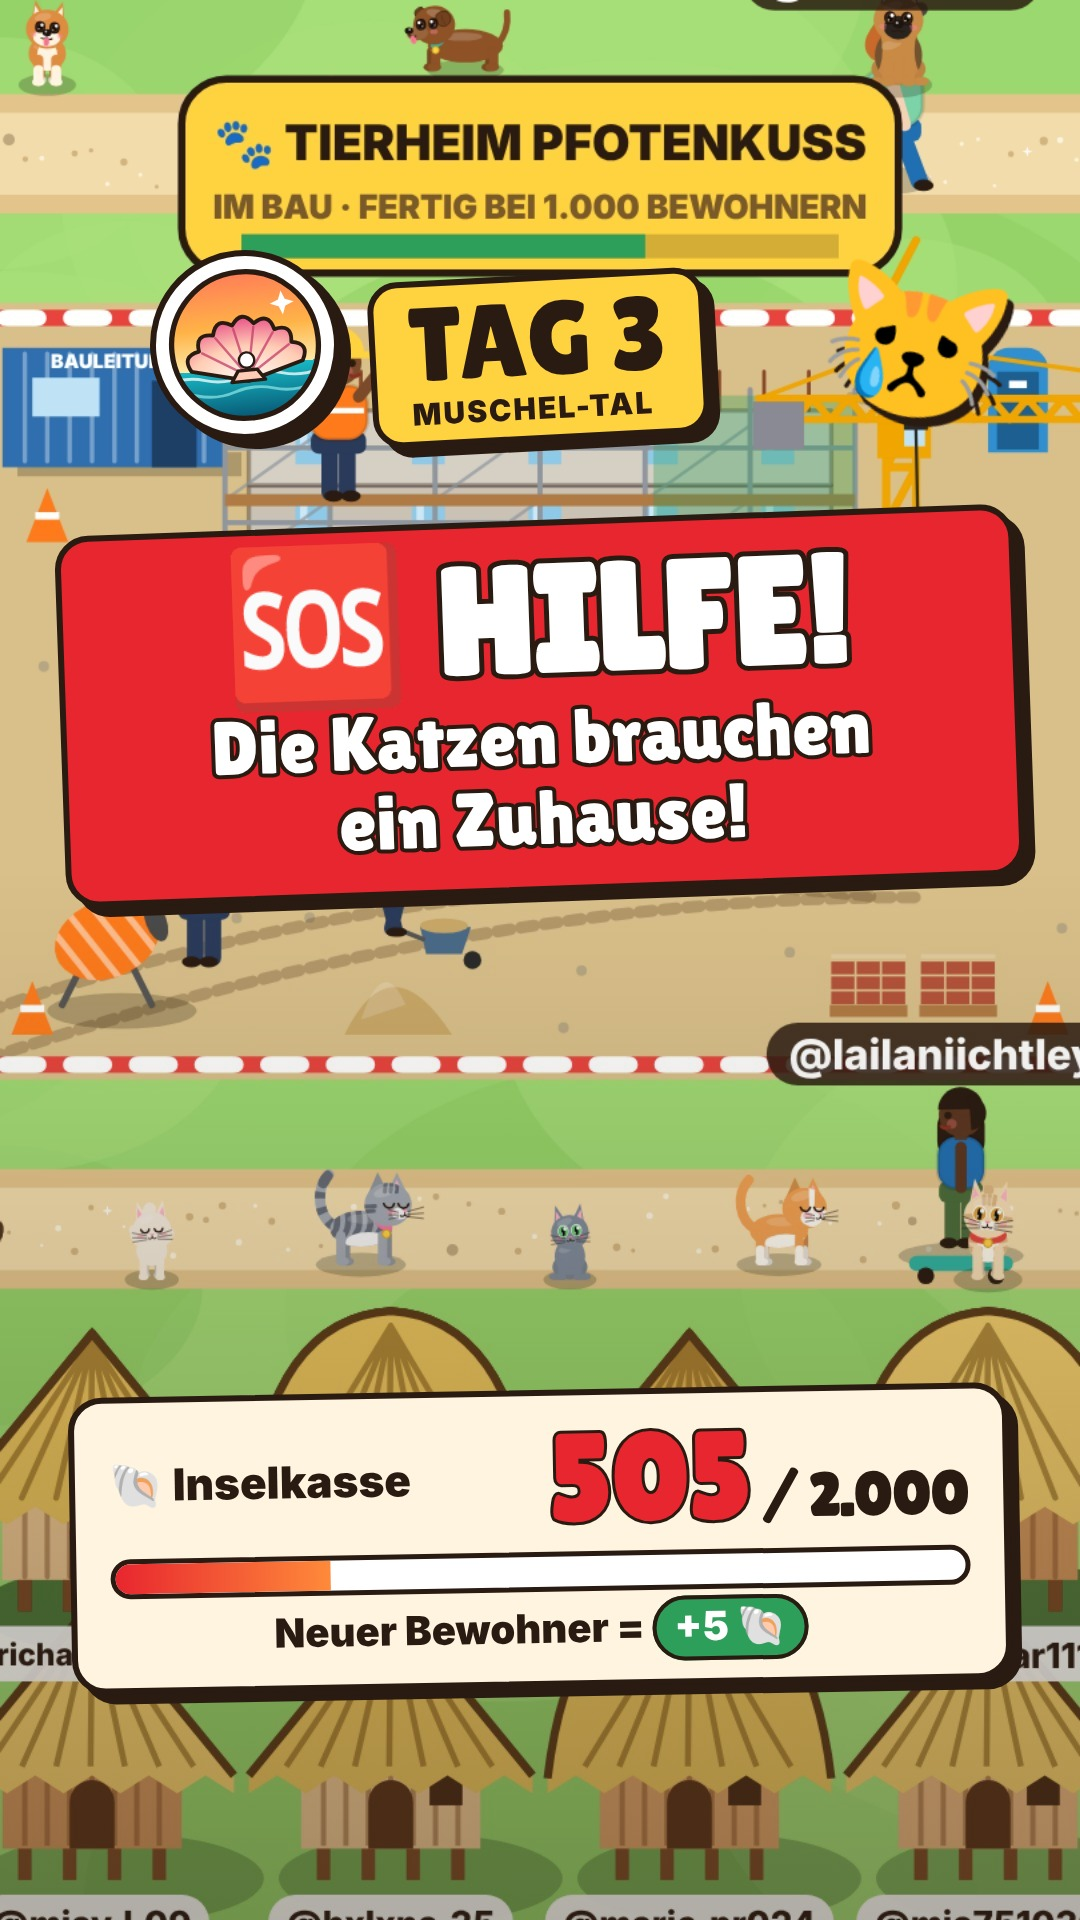
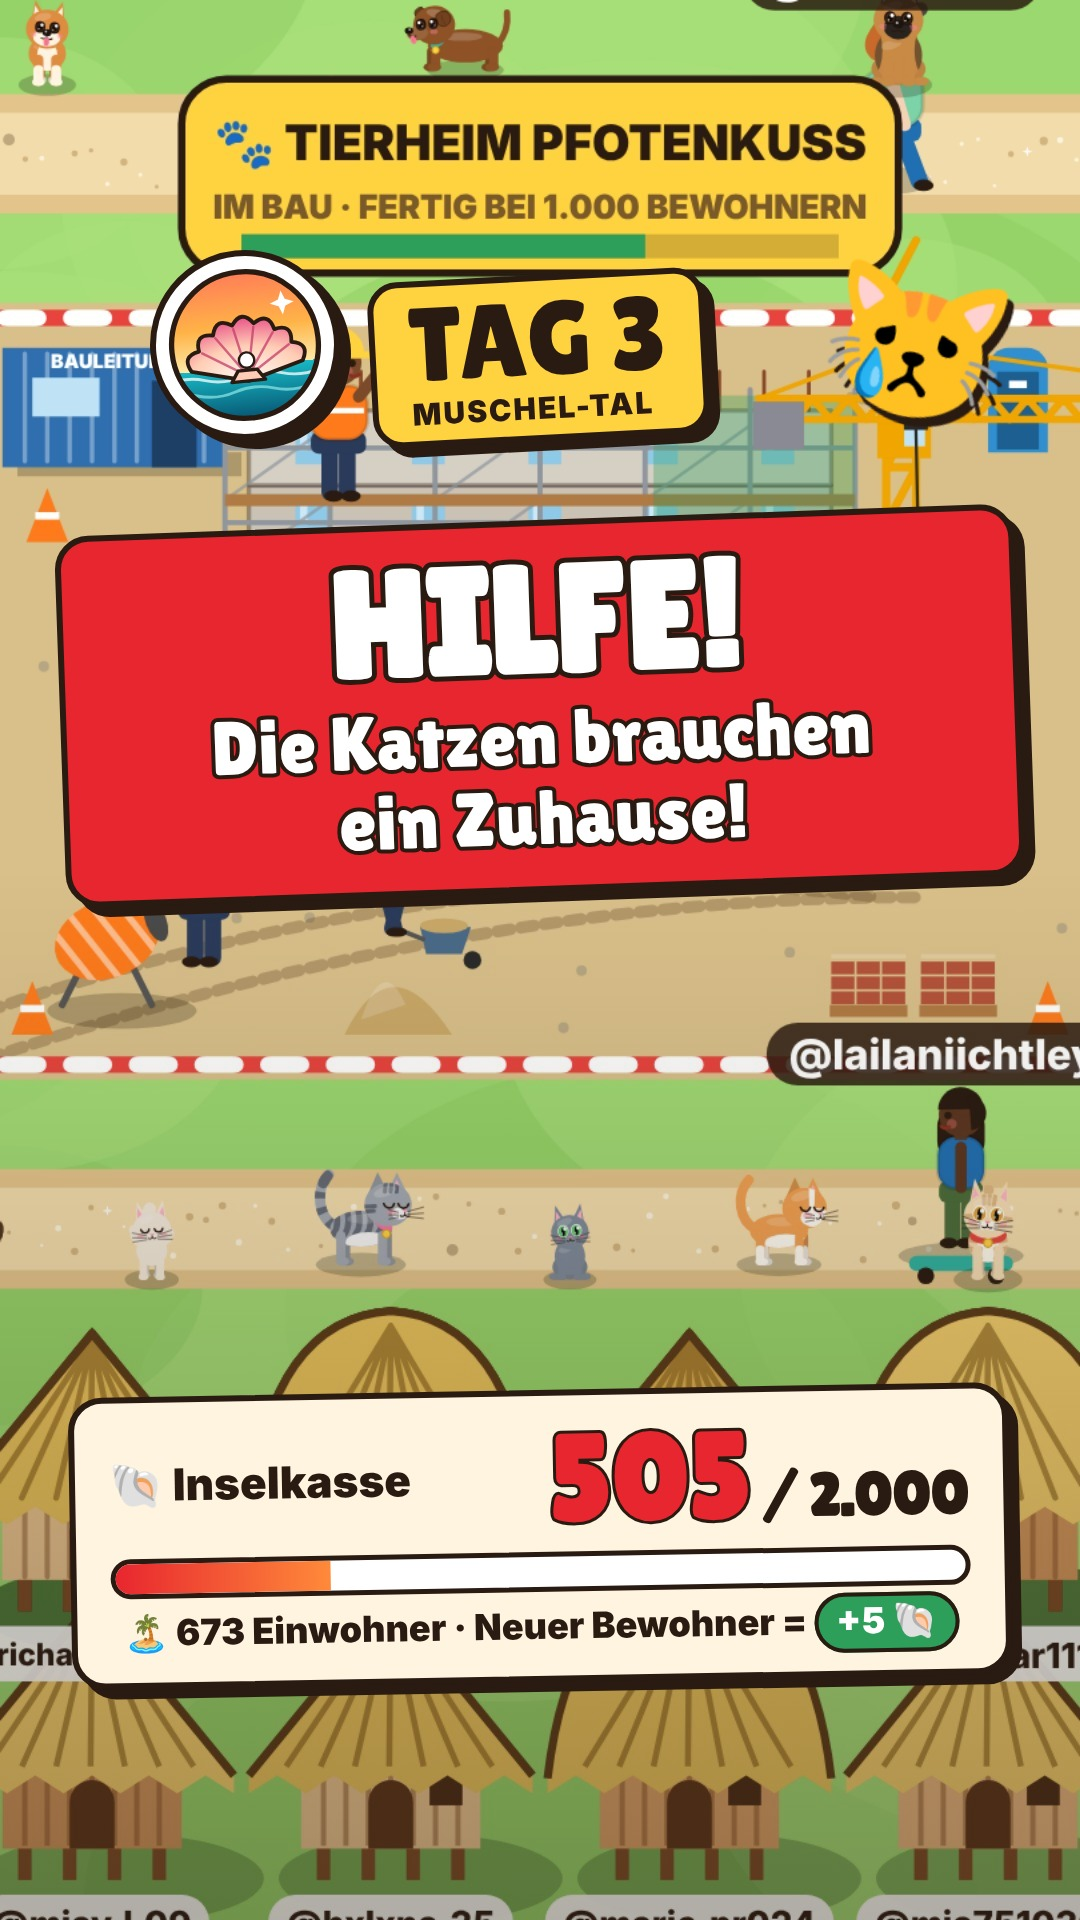
Tag 3: Thumbnail und Beschreibung mit 673 Einwohnern und Inselkasse 505
Claude-Session: https://claude.ai/code/session_01McNdgWwqfWZ56Gqk3h71JF

Changed region(s): [[0.0917, 0.8125, 0.9167, 0.9062], [0.4889, 0.2812, 0.7944, 0.375], [0.2139, 0.2812, 0.4583, 0.375]]

diff --git a/videos/muscheltal-tag3-tiere/cover/thumb.html b/videos/muscheltal-tag3-tiere/cover/thumb.html
@@ -20,13 +20,13 @@
 #kasse .n small{font-size:60px;color:var(--ink);-webkit-text-stroke:0}
 #kasse .bar{height:40px;border:5px solid var(--ink);border-radius:999px;background:#fff;margin-top:14px;overflow:hidden}
 #kasse .bar i{display:block;height:100%;width:25.25%;background:linear-gradient(90deg,#e8262f,#ff8a3a)}
-#kasse .f{margin-top:12px;text-align:center;font-weight:900;font-size:40px}
+#kasse .f{margin-top:12px;text-align:center;font-weight:900;font-size:36px}
 #kasse .f b{color:#fff;background:var(--leaf);border:4px solid var(--ink);border-radius:999px;padding:2px 18px 6px}
 </style></head><body>
 <div id="bg"></div>
 <div id="logo" class="stk"><svg viewBox="0 0 64 64"><defs><linearGradient id="cvsky" x1="0" y1="0" x2="0" y2="1"><stop offset="0" stop-color="#ff7a59"/><stop offset=".38" stop-color="#ffb347"/><stop offset=".64" stop-color="#ffe9a8"/><stop offset=".64" stop-color="#18b8c4"/><stop offset="1" stop-color="#06506e"/></linearGradient><radialGradient id="cvsh" cx=".5" cy=".95" r=".9"><stop offset="0" stop-color="#fffaf2"/><stop offset=".55" stop-color="#ffcdb5"/><stop offset="1" stop-color="#ec5f8d"/></radialGradient><clipPath id="cvc"><circle cx="32" cy="32" r="30"/></clipPath></defs><g clip-path="url(#cvc)"><rect width="64" height="64" fill="url(#cvsky)"/><path d="M-2 45 Q6 42.5 14 45 T30 45 T46 45 T62 45 T78 45" stroke="#fff" stroke-width="1.2" fill="none" opacity=".75"/><path d="M-6 51 Q2 48.5 10 51 T26 51 T42 51 T58 51 T74 51" stroke="#8fe8e8" stroke-width="1.2" fill="none" opacity=".7"/></g><path d="M32 47 L8.8 40.8 Q5.0 34.0 12.7 32.7 Q11.6 25.0 19.2 26.7 Q21.0 19.1 27.5 23.4 Q32.0 17.0 36.5 23.4 Q43.0 19.1 44.8 26.7 Q52.4 25.0 51.3 32.7 Q59.0 34.0 55.2 40.8 Z" fill="url(#cvsh)" stroke="#2a1b12" stroke-width="1.6" stroke-linejoin="round"/><path d="M32 45L13.9 33.6M32 45L20.0 27.9M32 45L27.8 24.9M32 45L36.2 24.9M32 45L44.0 27.9M32 45L50.1 33.6" stroke="#c43d6b" stroke-width="1" stroke-linecap="round" opacity=".75"/><path d="M25 47 L28 42.5 H36 L39 47 Z" fill="#ffcdb5" stroke="#2a1b12" stroke-width="1.4" stroke-linejoin="round"/><circle cx="32" cy="38.3" r="3.2" fill="#fff" stroke="#2a1b12" stroke-width="1"/><path d="M49 11 l1.4 3.6 3.6 1.4 -3.6 1.4 -1.4 3.6 -1.4 -3.6 -3.6 -1.4 3.6 -1.4z" fill="#fff"/><circle cx="32" cy="32" r="30.5" fill="none" stroke="#2a1b12" stroke-width="2.2"/></svg></div>
 <div id="tag" class="stk">TAG 3<small>MUSCHEL-TAL</small></div>
 <div id="cat">😿</div>
-<div id="hl" class="stk"><b>🆘 HILFE!</b><i>Die Katzen brauchen<br>ein Zuhause!</i></div>
-<div id="kasse" class="stk"><div class="r"><div>🐚 Inselkasse</div><div class="n">505<small> / 2.000</small></div></div><div class="bar"><i></i></div><div class="f">Neuer Bewohner = <b>+5 🐚</b></div></div>
+<div id="hl" class="stk"><b>HILFE!</b><i>Die Katzen brauchen<br>ein Zuhause!</i></div>
+<div id="kasse" class="stk"><div class="r"><div>🐚 Inselkasse</div><div class="n">505<small> / 2.000</small></div></div><div class="bar"><i></i></div><div class="f">🏝 673 Einwohner · Neuer Bewohner = <b>+5 🐚</b></div></div>
 </body></html>

diff --git a/videos/muscheltal-tag3-tiere/BESCHREIBUNG.md b/videos/muscheltal-tag3-tiere/BESCHREIBUNG.md
@@ -1,13 +1,13 @@
 # Muschel-Tal – Tag 3 · Beschreibung
 
-**Cover:** `renders/cover.jpg` (Vorlage `cover/thumb.html`, gewohntes Layout) – Logo + „TAG 3“, „🆘 HILFE! Die Katzen brauchen ein Zuhause!“, Hintergrund: Baustelle Tierheim Pfotenkuss mit streunenden Katzen auf dem Weg (Homepage-Aufnahme), Karte „🐚 Inselkasse 505 / 2.000 – Neuer Bewohner = +5 🐚“.
+**Cover:** `renders/cover.jpg` (Vorlage `cover/thumb.html`, gewohntes Layout) – Logo + „TAG 3“, „HILFE! Die Katzen brauchen ein Zuhause!“, Hintergrund: Baustelle Tierheim Pfotenkuss mit streunenden Katzen auf dem Weg (Homepage-Aufnahme), Karte „🐚 Inselkasse 505 / 2.000 – 🏝 673 Einwohner · Neuer Bewohner = +5 🐚“.
 
 **Verlosung Strandvilla:** @emiliamarie155 (Nr. 225) und @lea.3818730 (Nr. 286), am 10.11. per Zufall (Python `secrets.choice`) aus allen Einwohnern ohne Amt/Job gezogen.
 
 ## Hauptversion (zum Posten)
 Hilfe! Die Streuner auf Muschel-Tal brauchen ein Tierheim 🐾 Folg mir, um einzuziehen – jeder neue Bewohner bringt 5 Muscheln in die Inselkasse 🐚
 
-Tag 3: Inselkasse 505 / 2.000 – es fehlen nur noch 299 Bewohner!
+Tag 3: 673 Einwohner 🏝 Inselkasse 505 / 2.000 Muscheln – es fehlen nur noch 299 Bewohner!
 🫐 Açaí-Stand: @vidafilipa (Leitung), @marina.cgnn, @borbie20, @lp_art18
 🔧 Moped-Werkstatt: @bruecke.2803 (Leitung), @anti.teamtoxic
 🏊 Neuer Pool für @luisedbr.11
@@ -24,7 +24,7 @@ Welches Tier holst du dir aus dem Tierheim Pfotenkuss? 🐶🐱 Und: Soll @fabie
 
 ## Warum so
 - Erster Satz = Hilfe-Aufruf + klare Handlung (folgen = 5 Muscheln), erscheint vor dem „mehr“.
-- Konkretes Ziel mit Zahl (505 / 2.000, 299 Follower) erzeugt Dringlichkeit.
+- Konkretes Ziel mit Zahl (505 / 2.000, 299 Bewohner) erzeugt Dringlichkeit.
 - Alle Erwähnten mit Usernamen → sie teilen/kommentieren, mehr Reichweite.
 - Zwei Kommentar-Fragen (Tier + Bäckerei-Abstimmung) für Interaktion.
 - Hashtags: 5 Stück – Marke (#muscheltal), Reichweite (#fürdich #fyp), Thema (#tierheim #katzen).

diff --git a/MUSCHELTAL_FAKTEN.md b/MUSCHELTAL_FAKTEN.md
@@ -143,7 +143,7 @@ Vor jeder Arbeit: `git pull origin claude/sweet-hamilton-2bxep9` (Videos und Hom
 - Aussage: **Folgt bis 23:30 Uhr – und habt morgen eure Hütte auf Kokos-Küste.** Homepage muss die neuen Follower (bis 23:30) bis morgen zeigen.
 
 ## Video Tag 3 „Hilfe für die Tiere“ (10.11., `videos/muscheltal-tag3-tiere/`)
-- Hook: Hilfe! Überall streunende Hunde und Katzen. **Tierheim Pfotenkuss kostet 2.000 Muscheln**, Kasse hat **505** (676 × 5 − 2.875). Jeder neue Follower = 5 Muscheln → **es fehlen 299 Follower**.
+- Hook: Hilfe! Überall streunende Hunde und Katzen. **Tierheim Pfotenkuss kostet 2.000 Muscheln**, Kasse hat **505** (Stand Video 10.11.; Einwohner laut Nutzer am 10.11.: **673**). Jeder neue Follower = 5 Muscheln → **es fehlen 299 Follower**.
 - Açaí-Stand (von Bürgermeisterin Lilly zum Amtsstart eröffnet): Filipa (@vidafilipa, Leitung), Marina (@marina.cgnn), Johanna (@borbie20), @lp_art18. Moped-Werkstatt: @bruecke.2803 (Leitung), @anti.teamtoxic. Pool für @luisedbr.11 (Kommentar-Wunsch).
 - **Strandvilla ausgelost (10.11., Zufall unter allen Einwohnern ohne Amt/Job): @emiliamarie155 (Nr. 225) und @lea.3818730 (Nr. 286)** – wohnen **dauerhaft** in der Villa (ihre neue „Hütte“). ⚠ Homepage: beide in die Strandvilla einziehen lassen, Schild „bald verlost“ entfernen.
 - **Abstimmung in den Kommentaren: Soll @fabienne3692 (Fabienne) eine Bäckerei eröffnen** (sie wohnt darüber und backt Cookies/Zimtschnecken)?
